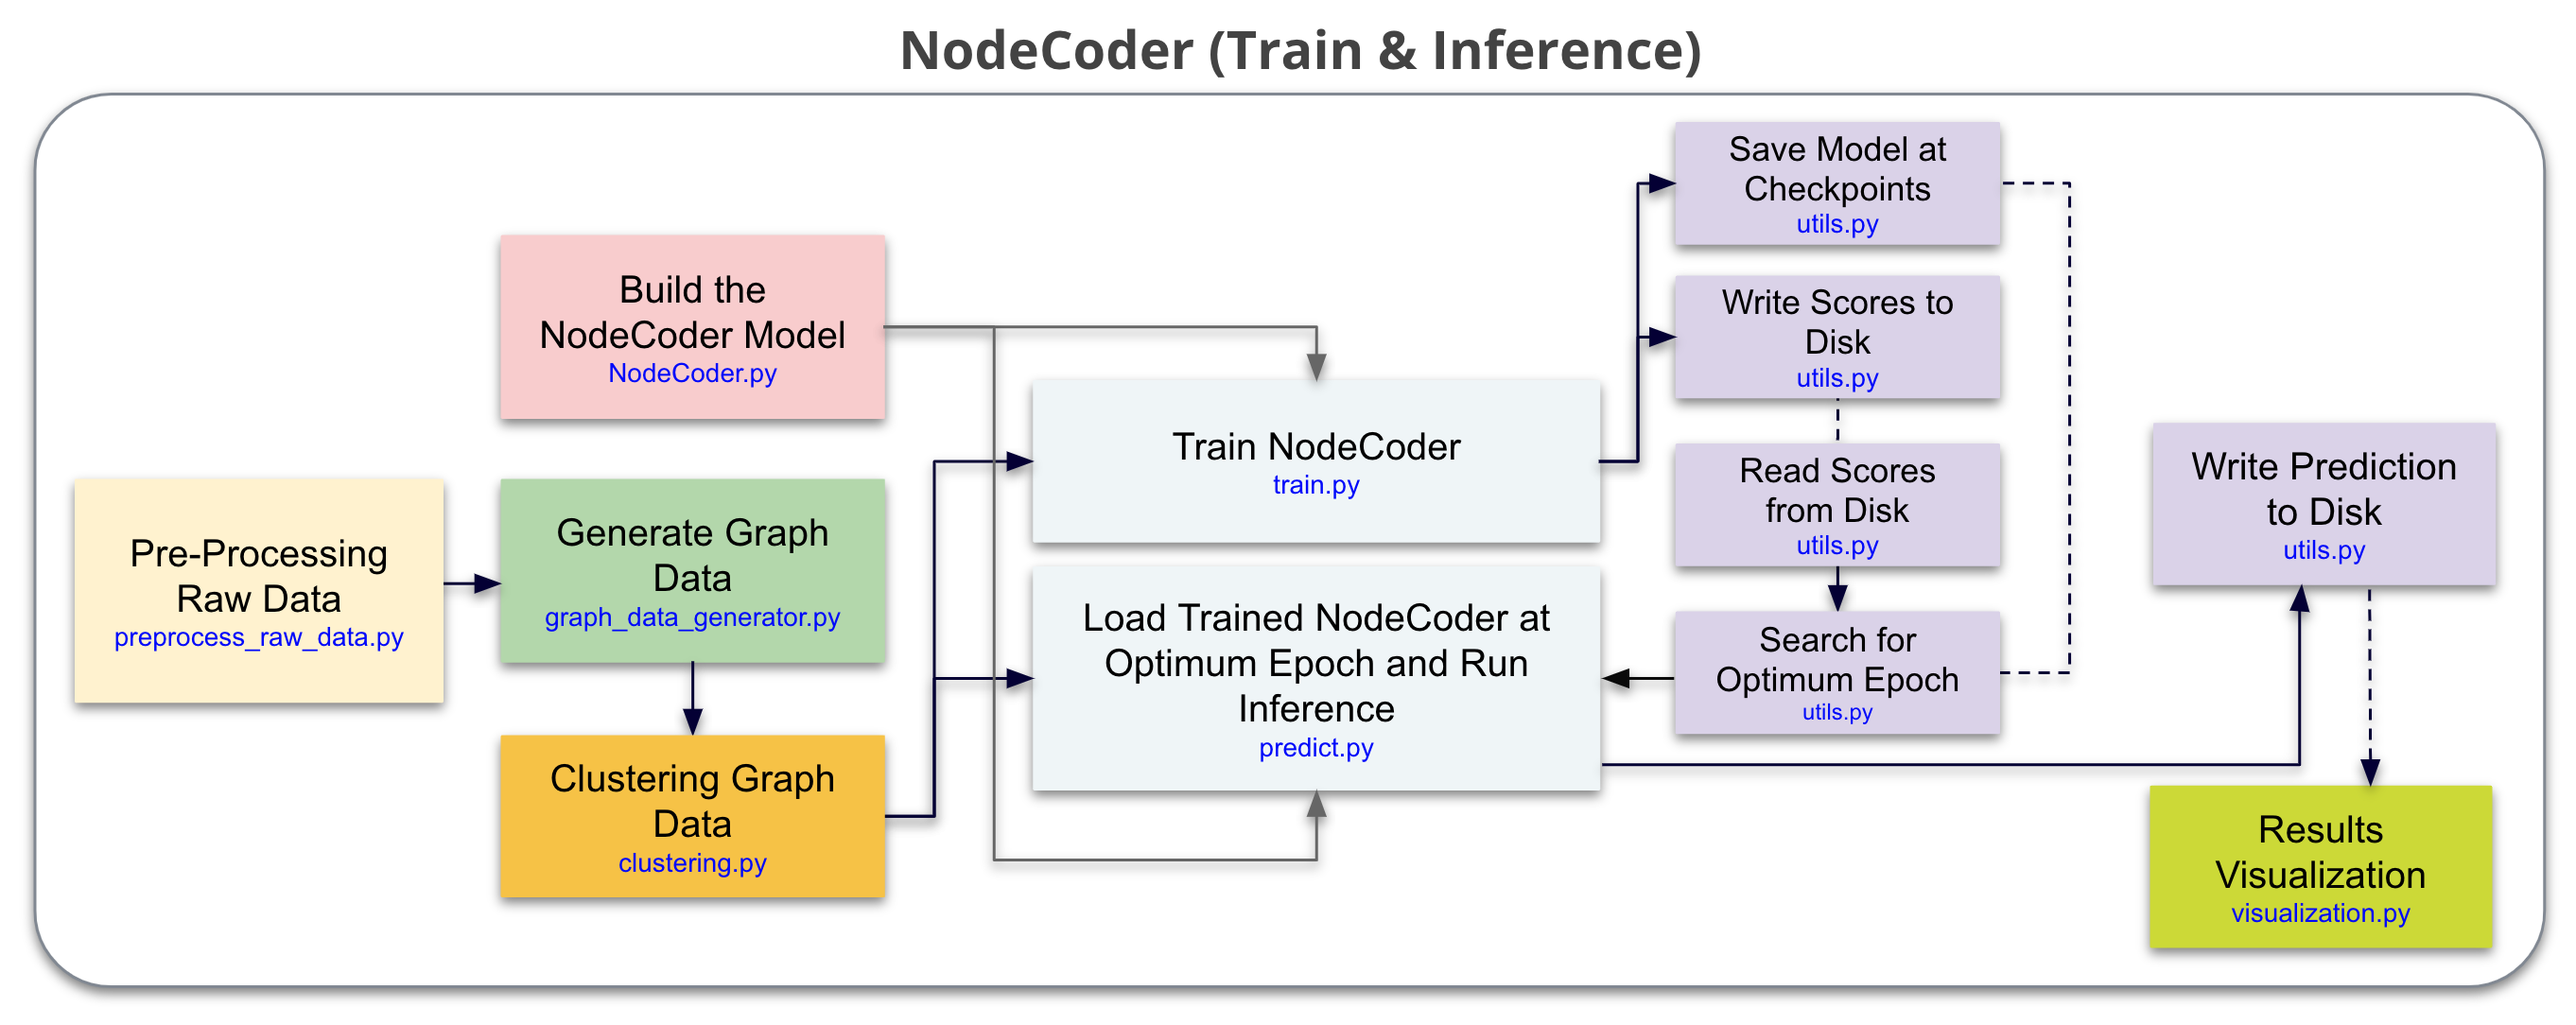
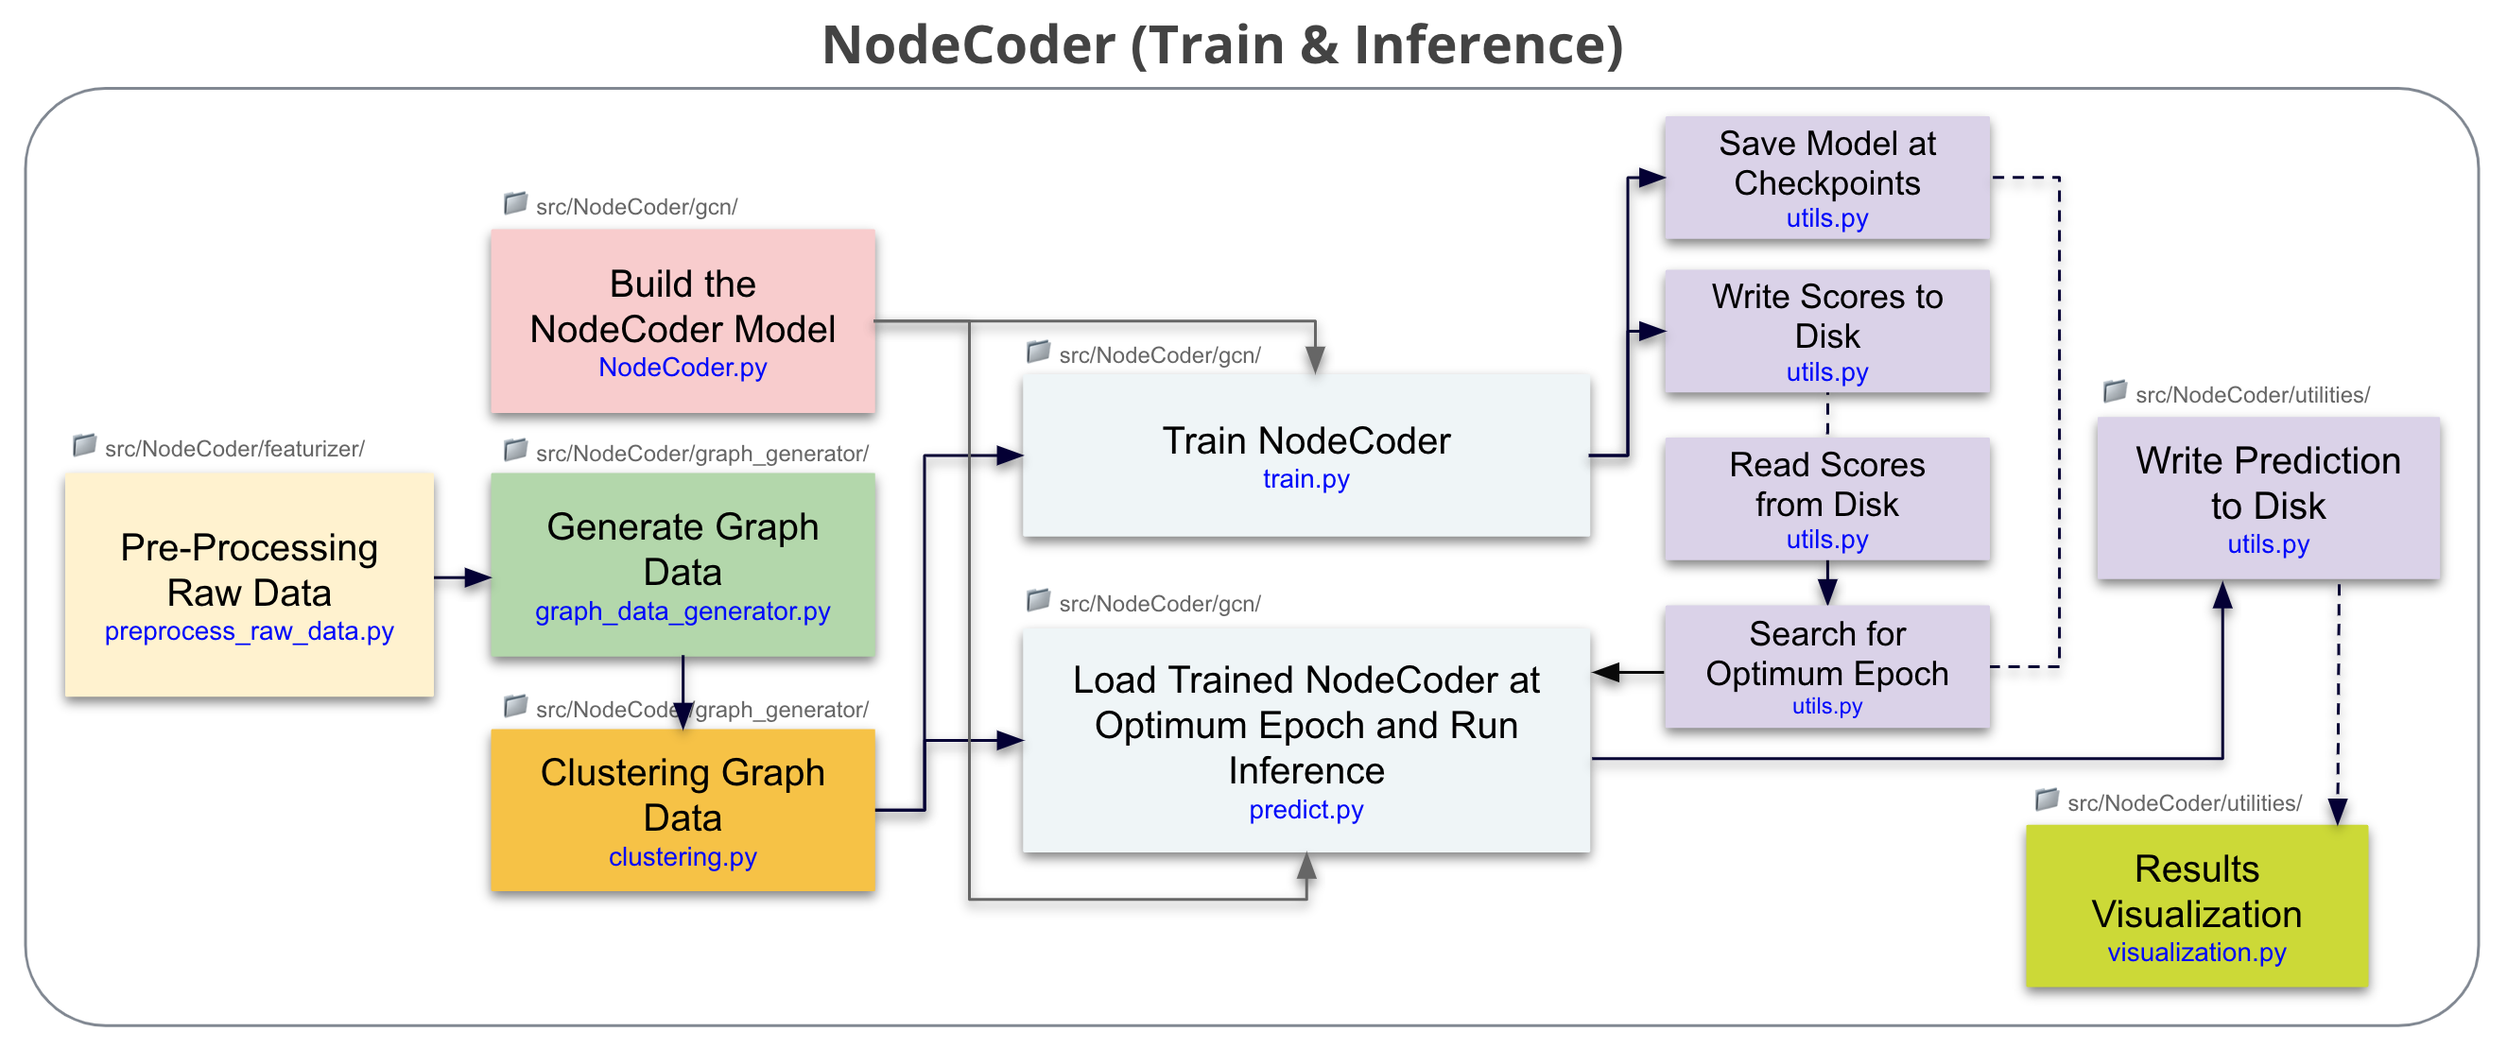
visualization module is added.

Changed region(s): [[0.0, 0.0304, 0.9894, 1.0], [0.9585, 0.0913, 0.9894, 0.1218]]

diff --git a/src/NodeCoder/utilities/visualization.py b/src/NodeCoder/utilities/visualization.py
@@ -1,0 +1,110 @@
+import pandas as pd
+import numpy as np
+import gzip
+import Bio.PDB
+import numpy
+import networkx as nx
+import matplotlib.pyplot as plt
+import matplotlib as mpl
+from pyvis.network import Network
+
+
+class Visualize_Prediction(object):
+
+    def __init__(self, args):
+        self.args = args
+        self.visulize_protein_prediction()
+
+    def calc_residue_dist(self, residue_one, residue_two):
+        """Returns the C-alpha distance between two residues"""
+        diff_vector = residue_one["CA"].coord - residue_two["CA"].coord
+        return np.sqrt(numpy.sum(diff_vector * diff_vector))
+
+    def calc_contacts(self, chain_one, chain_two):
+        """Returns a matrix of C-alpha distances between two chains"""
+        answer = np.zeros((len(chain_one), len(chain_two)), 'float')
+        contacts = []
+        for row, residue_one in enumerate(chain_one):
+            for col, residue_two in enumerate(chain_two):
+                distance = self.calc_residue_dist(residue_one, residue_two)
+                if distance <= 10:
+                    contacts.append((col, row))
+        return contacts
+
+    def convert_fraction_to_color(self, fraction):
+        assert(0 <= fraction <= 1.0)
+        color_0 = (255, 255, 255)   # Start Color
+        color_1 = (255, 120, 0)     # End Color
+        color_n = tuple([int(color_0[x] + ((color_1[x] - color_0[x]) * fraction)) for x in range(3)])
+        color = '#%02x%02x%02x' % color_n
+        return color
+
+    def visulize_protein_prediction(self):
+        df = pd.read_csv(self.args.protein_prediction_fileName)
+        if self.args.structure_file.split('.')[-1] == 'gz':
+            protein_structure = gzip.open(self.args.structure_file, 'rt')
+            structure = Bio.PDB.PDBParser().get_structure('XX', protein_structure)
+        else:
+            protein_structure = self.args.structure_file
+            structure = Bio.PDB.PDBParser().get_structure(self.args.protein_ID, protein_structure)
+        model = structure[0]
+        contacts = self.calc_contacts(model["A"], model["A"])
+
+        for j in self.args.target_name:
+            target_name = j.split('_')[1]
+            for t in ['Target', 'Prediction Probability']:
+                nt = Network(notebook=True)
+                nodes = set()
+                for i, row in df.iterrows():
+                    f = row[target_name + ' ' + t]
+                    nt.add_node(i, size=50, label=f'x{i+1}', color=self.convert_fraction_to_color(f))
+                    nodes.add(i)
+                for x, y in contacts:
+                    if x in nodes and y in nodes:
+                        nt.add_edge(x, y)
+                nt.toggle_physics(True)
+                nt.show(self.args.path_protein_results + self.args.protein_ID + '_' + target_name + '_' + t + '.html')
+                nt.toggle_physics(True)
+
+        #################################################
+
+        for j in self.args.target_name:
+            target_name = j.split('_')[1]
+            color_map_G_t, color_map_G_p, prob_list = [], [], []
+            G = nx.Graph()
+            nodes = set()
+            for i, row in df.iterrows():
+                task = row[f"{target_name} Target"]
+                prob = row[f"{target_name} Prediction Probability"]
+                G.add_node(i, size=50, label=f'x{i+1}', color=self.convert_fraction_to_color(task))
+                nodes.add(i)
+                color_map_G_t.append(self.convert_fraction_to_color(task))
+                color_map_G_p.append(self.convert_fraction_to_color(prob))
+                prob_list.append(prob)
+            for x, y in contacts:
+                if x in nodes and y in nodes:
+                    G.add_edge(x, y)
+
+            fig, axs = plt.subplots(nrows=2, ncols=1, figsize=(4, 6))
+            axs[0] = plt.subplot(211)
+            pos = nx.spring_layout(G)
+            nx.draw(G, pos=pos, node_size=30, with_labels=False, node_color=color_map_G_t, edge_color='#CCCCCC')#,alpha=0.5)
+            axs[0].collections[0].set_edgecolor('#808080')
+            nx.draw_networkx_edges(G, pos=pos, width=0.3, edge_color='#CCCCCC')
+            axs[1] = plt.subplot(212)
+            nx.draw(G, pos=pos, node_size=22, with_labels=False, node_color=color_map_G_p, edge_color='#CCCCCC')
+            axs[1].collections[0].set_edgecolor('#808080')
+
+            cmap = mpl.colors.ListedColormap([self.convert_fraction_to_color(0.1), self.convert_fraction_to_color(0.3),
+                                              self.convert_fraction_to_color(0.5), self.convert_fraction_to_color(0.7),
+                                              self.convert_fraction_to_color(0.9)])
+            bounds = [0, 0.2, 0.4, 0.6, 0.8, 1.0]
+            norm = mpl.colors.BoundaryNorm(bounds, cmap.N)
+
+            fig.subplots_adjust(top=0.9)
+            cbar_ax = fig.add_axes([0.25, 0.08, 0.45, 0.031])
+            fig.colorbar(mpl.cm.ScalarMappable(cmap=cmap, norm=norm),
+                         label='prediction probability', orientation='horizontal', cax=cbar_ax)
+            axs[0].set_title('Target', fontweight="bold", size=10)
+            axs[1].set_title('Prediction', fontweight="bold", size=10)
+            plt.savefig(self.args.path_protein_results + self.args.protein_ID + '_' + target_name + '_2D.png', dpi=200)

diff --git a/src/NodeCoder/predict.py b/src/NodeCoder/predict.py
@@ -10,6 +10,7 @@ from NodeCoder.gcn.NodeCoder import NodeCoder_Model
 from NodeCoder.gcn.NodeCoder_predict import NodeCoder_Predictor
 from NodeCoder.utilities.utils import tab_printer, graph_reader, feature_reader, edge_feature_reader, target_reader, optimum_epoch, \
     csv_writer_prediction, csv_writer_performance_metrics_perprotein
+from NodeCoder.utilities.visualization import Visualize_Prediction       
 from NodeCoder.utilities.config import logger
 
 
@@ -116,7 +117,11 @@ def main(protein_ID:str, threshold_dist:int=5, trained_model_fold_number:int=1, 
     """ Writing prediction metrics per protein """
     logger.info(f"Writing prediction metrics per protein ...")
     csv_writer_performance_metrics_perprotein(predictor, args.trained_model_fold_number)
-
+	
+	""" Visualizing residue level prediction on protein """
+    logger.info(f"Visualizing prediction ...")
+    Visualize_Prediction(args)
+    
     logger.success("Inference has successfully completed.")
 
 if __name__ == "__main__":
